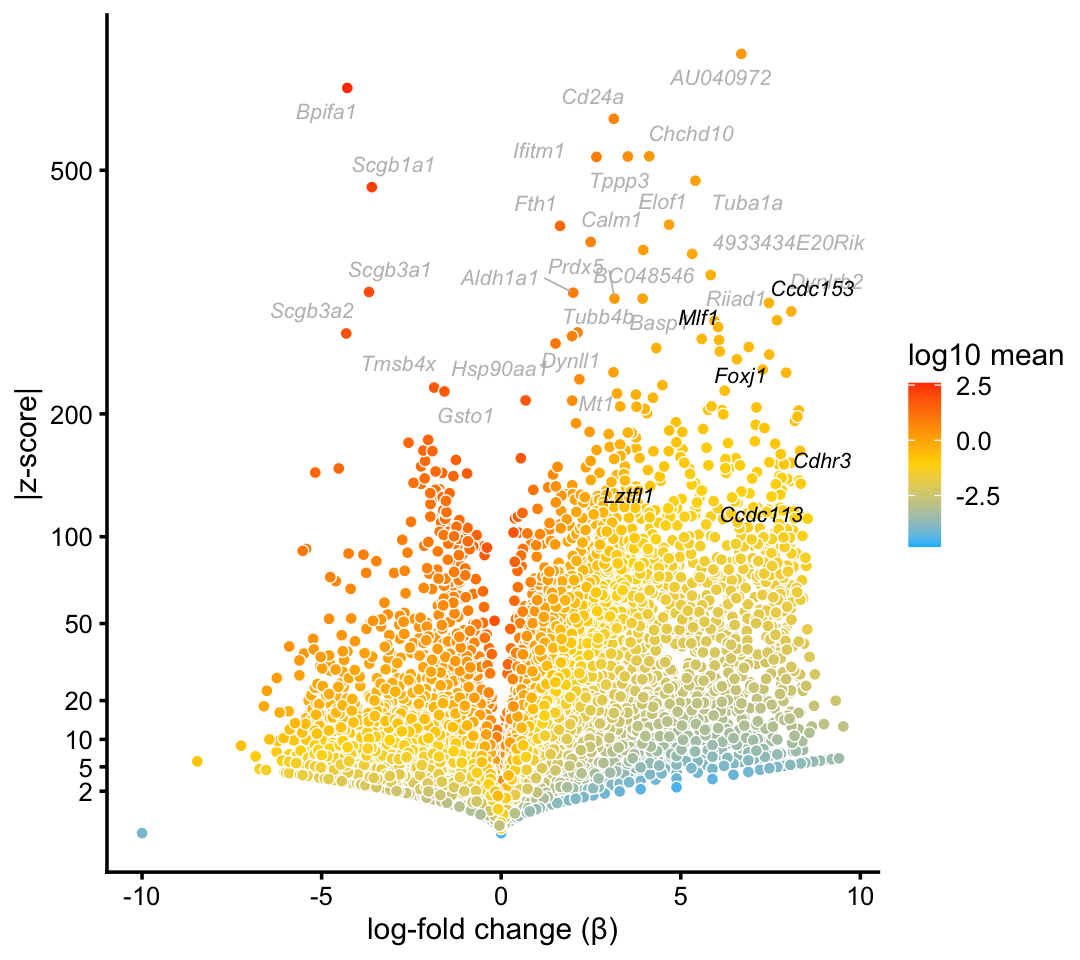
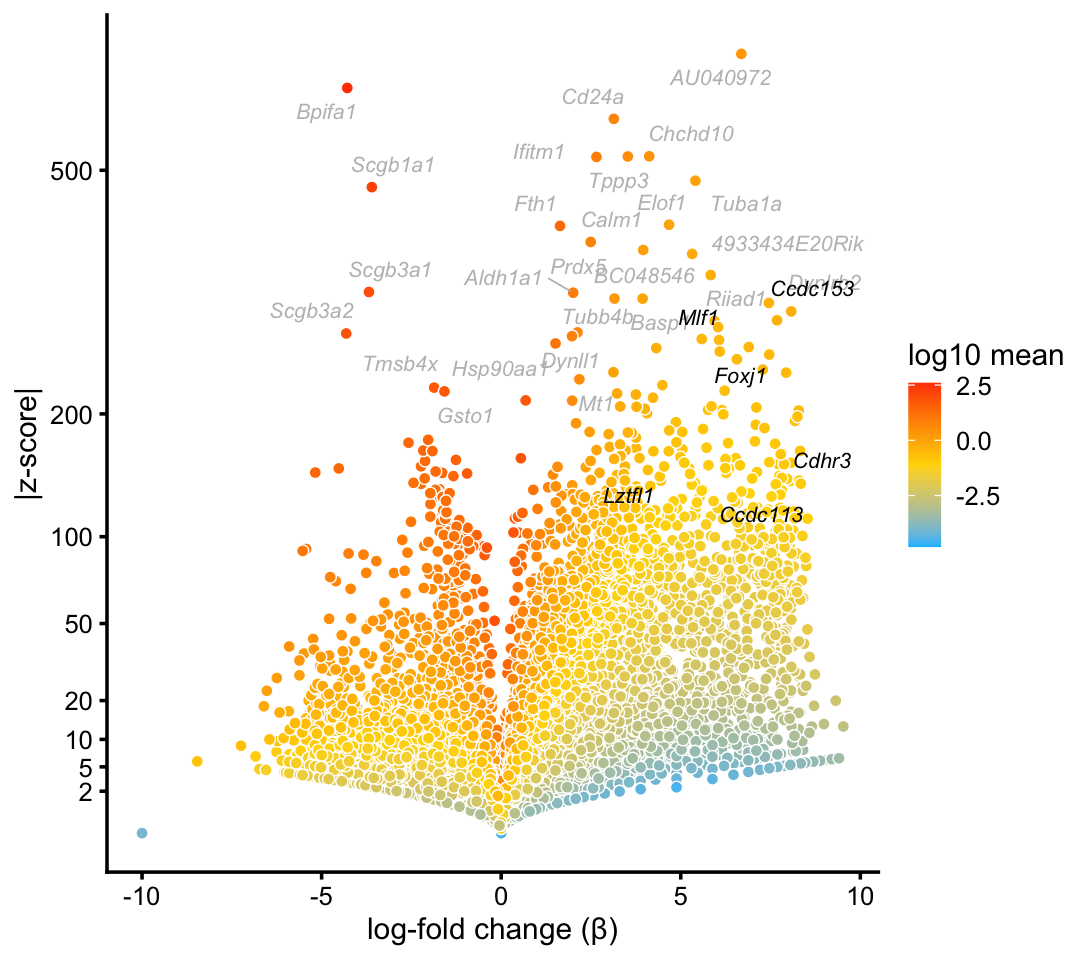
Added text to accompany ciliated cells volcano plots.

diff --git a/docs/plots_tracheal_epithelium.html b/docs/plots_tracheal_epithelium.html
@@ -429,23 +429,22 @@ diff-count-analysis-topics-pulseseq
 <div class="panel panel-default">
 <div class="panel-heading">
 <p class="panel-title">
-<a data-toggle="collapse" data-parent="#workflowr-checks" href="#strongRepositoryversionstrongahrefhttpsgithubcomstephenslabsinglecelltopicstree516a32ee85f8000ea1fd0998fc5030b2db66f660targetblank516a32ea"> <span class="glyphicon glyphicon-ok text-success" aria-hidden="true"></span> <strong>Repository version:</strong> <a href="https://github.com/stephenslab/single-cell-topics/tree/516a32ee85f8000ea1fd0998fc5030b2db66f660" target="_blank">516a32e</a> </a>
+<a data-toggle="collapse" data-parent="#workflowr-checks" href="#strongRepositoryversionstrongahrefhttpsgithubcomstephenslabsinglecelltopicstree8198c07fd1f92ea5ae43cc52b33f2a1b4288f340targetblank8198c07a"> <span class="glyphicon glyphicon-ok text-success" aria-hidden="true"></span> <strong>Repository version:</strong> <a href="https://github.com/stephenslab/single-cell-topics/tree/8198c07fd1f92ea5ae43cc52b33f2a1b4288f340" target="_blank">8198c07</a> </a>
 </p>
 </div>
[2 lines of base64/hex data omitted]
 <div class="panel-body">
 <p>
 Great! You are using Git for version control. Tracking code development and connecting the code version to the results is critical for reproducibility.
 </p>
 <p>
-The results in this page were generated with repository version <a href="https://github.com/stephenslab/single-cell-topics/tree/516a32ee85f8000ea1fd0998fc5030b2db66f660" target="_blank">516a32e</a>. See the <em>Past versions</em> tab to see a history of the changes made to the R Markdown and HTML files.
+The results in this page were generated with repository version <a href="https://github.com/stephenslab/single-cell-topics/tree/8198c07fd1f92ea5ae43cc52b33f2a1b4288f340" target="_blank">8198c07</a>. See the <em>Past versions</em> tab to see a history of the changes made to the R Markdown and HTML files.
 </p>
 <p>
 Note that you need to be careful to ensure that all relevant files for the analysis have been committed to Git prior to generating the results (you can use <code>wflow_publish</code> or <code>wflow_git_commit</code>). workflowr only checks the R Markdown file, but you know if there are other scripts or data files that it depends on. Below is the status of the Git repository when the results were generated:
 </p>
 <pre><code>
 Ignored files:
-    Ignored:    analysis/figure/
     Ignored:    data/droplet.RData
     Ignored:    data/pbmc_68k.RData
     Ignored:    data/pbmc_purified.RData
@@ -499,6 +498,40 @@ Message
 </tr>
 </thead>
 <tbody>
+<tr>
+<td>
+Rmd
+</td>
+<td>
+<a href="https://github.com/stephenslab/single-cell-topics/blob/8198c07fd1f92ea5ae43cc52b33f2a1b4288f340/analysis/plots_tracheal_epithelium.Rmd" target="_blank">8198c07</a>
+</td>
+<td>
+Peter Carbonetto
+</td>
+<td>
+2020-09-23
+</td>
+<td>
+workflowr::wflow_publish(“plots_tracheal_epithelium.Rmd”, verbose = TRUE)
+</td>
+</tr>
+<tr>
+<td>
+html
+</td>
+<td>
+<a href="https://rawcdn.githack.com/stephenslab/single-cell-topics/23f87bb202ad31fcb5ebc7aaaba8bf0344e09343/docs/plots_tracheal_epithelium.html" target="_blank">23f87bb</a>
+</td>
+<td>
+Peter Carbonetto
+</td>
+<td>
+2020-09-23
+</td>
+<td>
+Improved volcano plots for ciliated cell type in
+</td>
+</tr>
 <tr>
 <td>
 Rmd
@@ -1517,7 +1550,7 @@ cat(sprintf(&quot;Computation took %0.2f seconds.\n&quot;,timing[&quot;elapsed&q
 </div>
 <div id="ciliated-cells" class="section level2">
 <h2>Ciliated cells</h2>
-<p>Volcano plot for “Cil” cluster in droplet data. Notes: The cluster for the ciliated cells is one of the best separated clusters in both the droplet and pulse-seq data. Marker genes and transcription factors for ciliated cells mentioned in Montoro <em>et al</em> (2018) are shown in black.</p>
+<p>We begin with the cluster that captures ciliated cells in the droplet data. This cluster is one of the most clearly separated clusters in both the droplet and pulse-seq data sets.</p>
 <pre class="r"><code>cilitated_genes &lt;- c(&quot;Ccdc113&quot;,&quot;Ccdc153&quot;,&quot;Cdhr3&quot;,&quot;Foxj1&quot;,&quot;Lztfl1&quot;,&quot;Mlf1&quot;)
 p1 &lt;- volcano_plot_with_highlighted_genes(diff_count_clusters_droplet,&quot;Cil&quot;,
                                           cilitated_genes,
@@ -1548,6 +1581,17 @@ Date
 <tbody>
 <tr>
 <td>
+<a href="https://github.com/stephenslab/single-cell-topics/blob/23f87bb202ad31fcb5ebc7aaaba8bf0344e09343/docs/figure/plots_tracheal_epithelium.Rmd/volcano-plot-droplet-cil-1.png" target="_blank">23f87bb</a>
+</td>
+<td>
+Peter Carbonetto
+</td>
+<td>
+2020-09-23
+</td>
+</tr>
+<tr>
+<td>
 <a href="https://github.com/stephenslab/single-cell-topics/blob/0ed5061eff987ada9a6387e5a2dd43b314014be5/docs/figure/plots_tracheal_epithelium.Rmd/volcano-plot-droplet-cil-1.png" target="_blank">0ed5061</a>
 </td>
 <td>
@@ -1561,7 +1605,8 @@ Peter Carbonetto
 </table>
 </div>
 </div>
-<p>Volcano plot for “Cil” cluster in pulse-seq data:</p>
+<p>In this volcano plot, marker genes and transcription factors identified in Montoro <em>et al</em> (2018) are highlighted in black.</p>
+<p>We obtain similar top differentially expressed genes in the pulse-seq data:</p>
 <pre class="r"><code>p2 &lt;- volcano_plot_with_highlighted_genes(diff_count_clusters_pulseseq,&quot;Cil&quot;,
                                           cilitated_genes,
                                           label_above_quantile = 0.998)
@@ -1589,6 +1634,17 @@ Date
 </tr>
 </thead>
 <tbody>
+<tr>
+<td>
+<a href="https://github.com/stephenslab/single-cell-topics/blob/23f87bb202ad31fcb5ebc7aaaba8bf0344e09343/docs/figure/plots_tracheal_epithelium.Rmd/volcano-plot-pulseseq-cil-1.png" target="_blank">23f87bb</a>
+</td>
+<td>
+Peter Carbonetto
+</td>
+<td>
+2020-09-23
+</td>
+</tr>
 <tr>
 <td>
 <a href="https://github.com/stephenslab/single-cell-topics/blob/0ed5061eff987ada9a6387e5a2dd43b314014be5/docs/figure/plots_tracheal_epithelium.Rmd/volcano-plot-pulseseq-cil-1.png" target="_blank">0ed5061</a>
